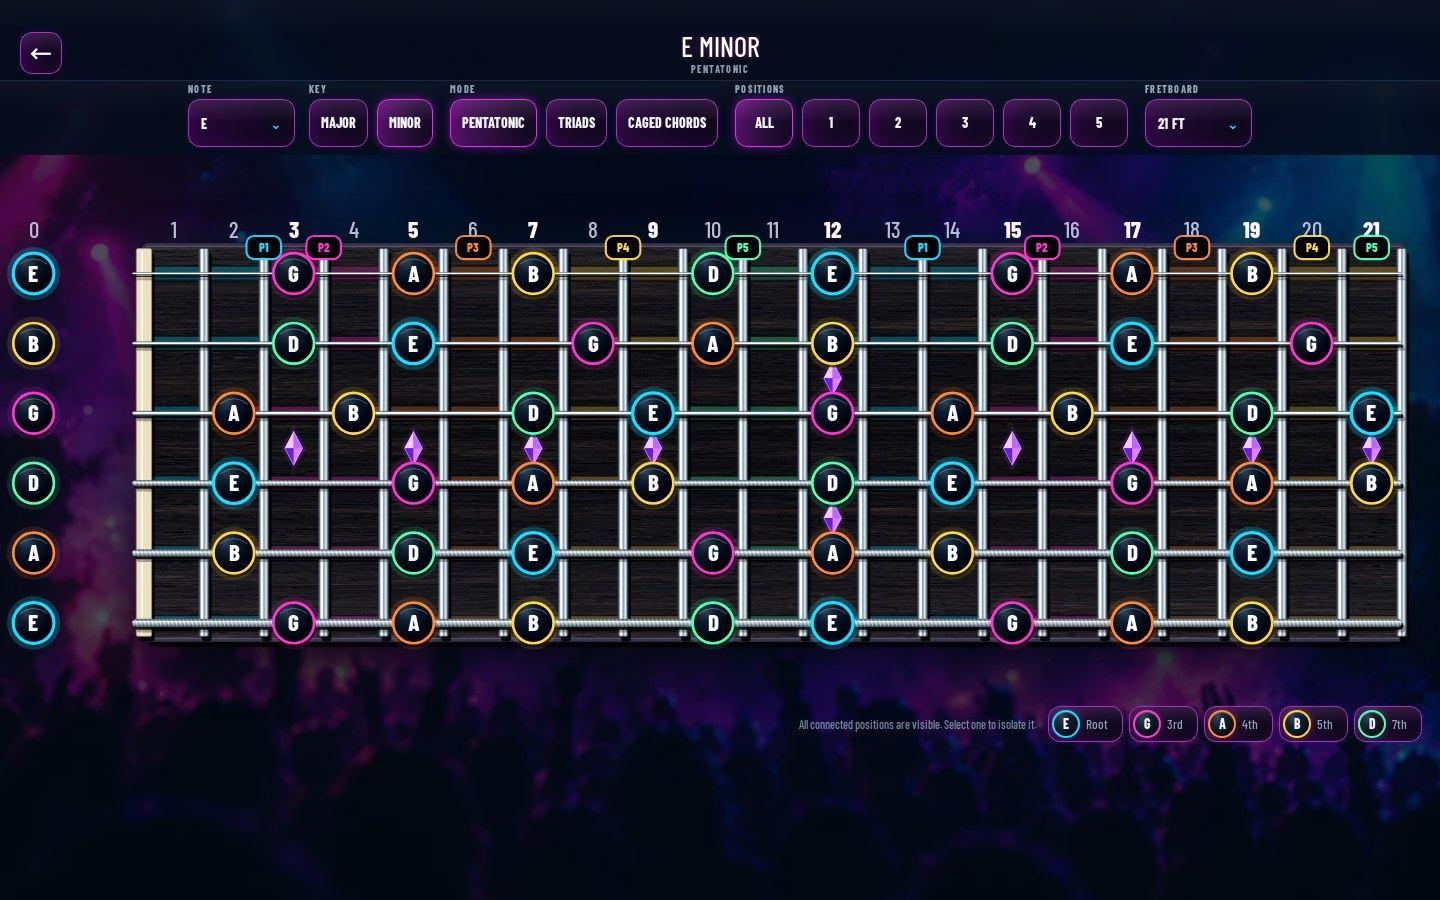
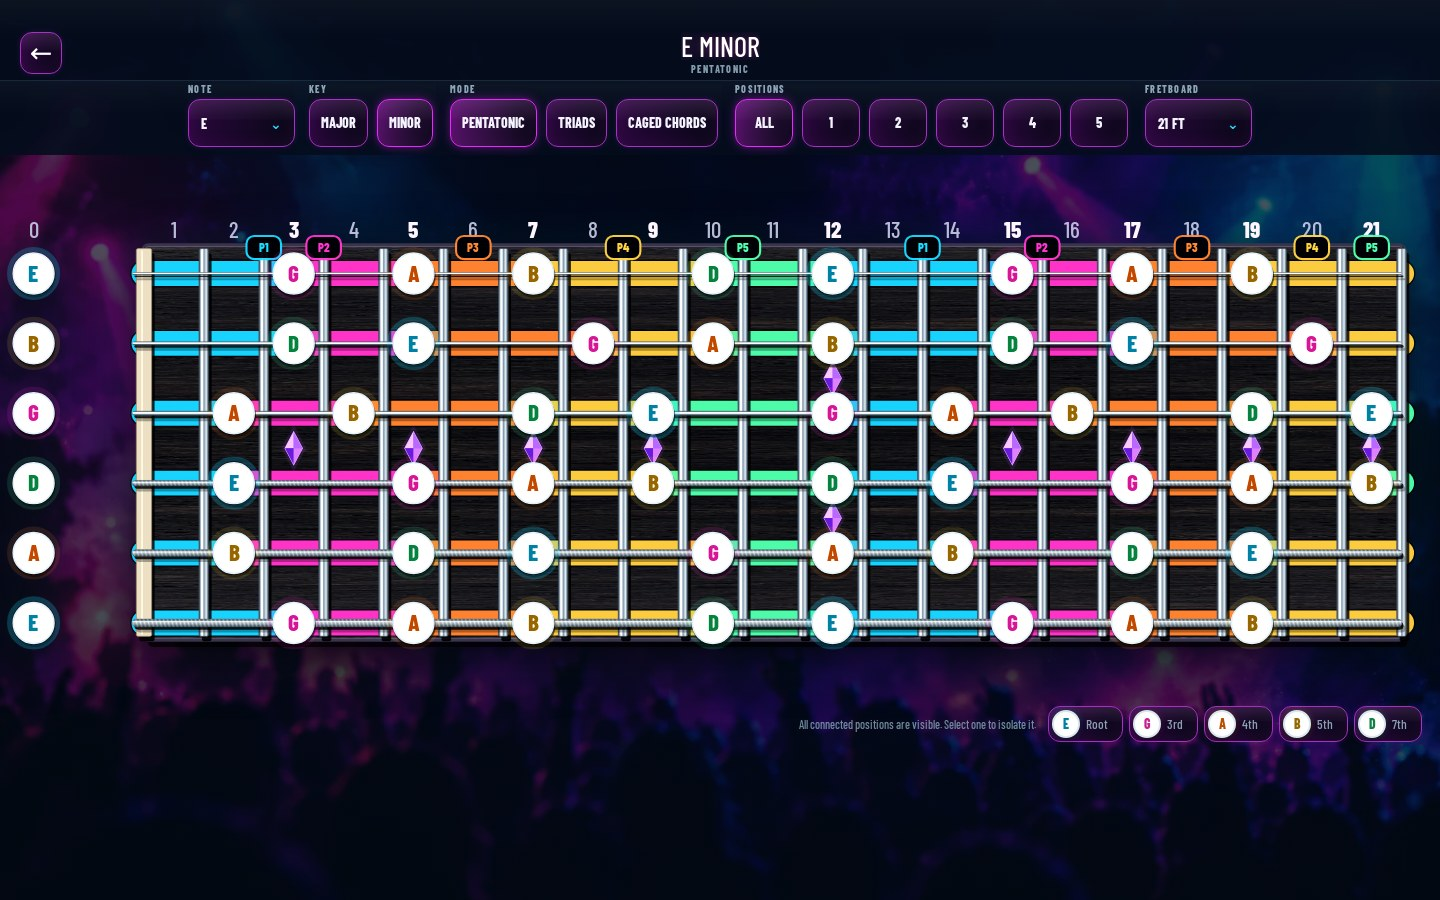
Restore pentatonic clarity with vivid bands and white note pills

diff --git a/web/core/fretboard-appearance.js b/web/core/fretboard-appearance.js
@@ -3,9 +3,11 @@
   // One visual language for the neck, note badges and their HTML legends.
   const DEGREE_COLORS=Object.freeze({root:'#27d7ff',third:'#ff3ec9',fourth:'#ff8b3d',fifth:'#ffd14f',seventh:'#5cffb2',second:'#9b6cff',sixth:'#35d1b0'});
   const SCALE_COLORS=Object.freeze(['#27d7ff','#5cffb2','#ff3ec9','#ff9d3f','#ffd14f','#9b6cff','#35d1b0']);
+  const DEGREE_INK=Object.freeze({root:'#007f9e',third:'#c92091',fourth:'#b94d00',fifth:'#946800',seventh:'#118044',second:'#6842bb',sixth:'#087c68'});
+  const inkFor=color=>DEGREE_INK[Object.keys(DEGREE_COLORS).find(degree=>DEGREE_COLORS[degree]===color)]||color;
   function create({svgEl,stringCount,instrument}){
     const metrics=new Map(),measure=document.createElement('canvas').getContext('2d');
-    function centeredLabel({x,y,label,size}){
+    function centeredLabel({x,y,label,size,color='#f4f3ff'}){
       const family=getComputedStyle(document.body).fontFamily,key=`${family}:${size}:${label}`;
       if(!metrics.has(key)){
         measure.font=`800 ${size}px ${family}`;
@@ -13,7 +15,7 @@
       }
       const m=metrics.get(key);
       // Center the visible glyph ink, not the font's em box or advance width.
-      return svgEl('text',{x:x+(m.actualBoundingBoxLeft-m.actualBoundingBoxRight)/2,y:y+(m.actualBoundingBoxAscent-m.actualBoundingBoxDescent)/2,fill:'#f4f3ff','font-size':size,'font-weight':800,'text-anchor':'start','dominant-baseline':'alphabetic','pointer-events':'none','data-label-center-x':x,'data-label-center-y':y},label);
+      return svgEl('text',{x:x+(m.actualBoundingBoxLeft-m.actualBoundingBoxRight)/2,y:y+(m.actualBoundingBoxAscent-m.actualBoundingBoxDescent)/2,fill:color,'font-size':size,'font-weight':800,'text-anchor':'start','dominant-baseline':'alphabetic','pointer-events':'none','data-label-center-x':x,'data-label-center-y':y},label);
     }
     function gradient(defs,id,stops,radial=false,isP=false){
       const node=svgEl(radial?'radialGradient':'linearGradient',radial?{id,cx:'32%',cy:'22%',r:'85%'}:{id,x1:'0%',y1:'0%',x2:isP?'100%':'0%',y2:isP?'0%':'100%'});
@@ -71,20 +73,20 @@
       group.append(svgEl('path',{d:`M ${x} ${y} L ${x+w} ${y} L ${x} ${y+h} Z`,fill:'#d581ff'}));svg.append(group);
     }
 
-    function note(svg,{x,y,isP,color,label,target=false,attrs={}}){
+    function note(svg,{x,y,isP,color,label,target=false,light=false,attrs={}}){
       const r=Number(svg.dataset.noteRadius)||(isP?26:24),prefix=svg.dataset.neckPrefix;
       if(Number(attrs['data-fret'])===0)svg.querySelector(`.neck-tuning[data-string="${attrs['data-string']}"]`)?.remove();
-      const group=svgEl('g',{class:'neck-note','data-note-color':color,...attrs});
+      const group=svgEl('g',{class:light?'neck-note neck-note-light':'neck-note','data-note-color':color,'data-note-ink':light?inkFor(color):'#f4f3ff',...attrs});
       group.append(svgEl('circle',{cx:x+1,cy:y+3,r:r+1,fill:'#000',opacity:.65}));
       group.append(svgEl('circle',{cx:x,cy:y,r:r+4,fill:'none',stroke:color,'stroke-width':5,opacity:target?.22:.12}));
-      group.append(svgEl('circle',{cx:x,cy:y,r,fill:`url(#${prefix}NoteGlass)`,stroke:color,'stroke-width':target?3.4:2.8}));
+      group.append(svgEl('circle',{cx:x,cy:y,r,fill:light?'#fff':`url(#${prefix}NoteGlass)`,stroke:light?'#dce8ef':color,'stroke-width':light?1.8:(target?3.4:2.8)}));
       group.append(svgEl('path',{d:`M ${x-r*.68} ${y-r*.45} Q ${x} ${y-r*.98} ${x+r*.68} ${y-r*.45}`,fill:'none',stroke:'#fff','stroke-width':.9,opacity:.32,'pointer-events':'none'}));
-      group.append(centeredLabel({x,y,label,size:isP?(label.length>1?21:26):(label.length>1?18:24)}));svg.append(group);
+      group.append(centeredLabel({x,y,label,size:isP?(label.length>1?21:26):(label.length>1?18:24),color:light?inkFor(color):'#f4f3ff'}));svg.append(group);
     }
-    function pill(host,label){
+    function pill(host,label,{light=false,color}={}){
       const svg=svgEl('svg',{viewBox:'0 0 28 28',width:28,height:28,'aria-hidden':'true',class:'neck-pill-label'});
-      svg.append(centeredLabel({x:14,y:14,label,size:16}));
-      host.replaceChildren(svg);host.setAttribute('aria-label',label);
+      svg.append(centeredLabel({x:14,y:14,label,size:16,color:light?inkFor(color):'#f4f3ff'}));
+      host.replaceChildren(svg);host.classList.toggle('is-light',light);host.dataset.noteInk=light?inkFor(color):'#f4f3ff';host.setAttribute('aria-label',label);
     }
     function tuning(svg,{x,y,label,string}){
       const group=svgEl('g',{class:'neck-tuning','data-string':string,'pointer-events':'none'});

diff --git a/web/index.html b/web/index.html
@@ -39,9 +39,9 @@
   <link rel="icon" type="image/png" sizes="192x192">
   <link rel="icon" type="image/png" sizes="512x512">
   <link rel="apple-touch-icon" sizes="180x180">
-  <link rel="stylesheet" href="./styles.css?v=10.9.3">
-  <link rel="stylesheet" href="./home.css?v=10.9.3">
-  <link rel="stylesheet" href="./theme.css?v=10.9.3">
+  <link rel="stylesheet" href="./styles.css?v=10.9.4">
+  <link rel="stylesheet" href="./home.css?v=10.9.4">
+  <link rel="stylesheet" href="./theme.css?v=10.9.4">
   <script id="productStructuredData" type="application/ld+json">{"@context":"https://schema.org","@type":["VideoGame","WebApplication"],"name":"Fretboard Hero","description":"Interactive fretboard trainer."}</script>
 </head>
 <body data-loading="true" aria-busy="true">
@@ -63,9 +63,9 @@
             <button class="hero-btn circle-card" data-go="circle"><span class="hero-icon"><svg viewBox="0 0 64 64" aria-hidden="true"><use href="./assets/home/icons.svg#circle"/></svg></span><span class="home-card-copy"><strong>CIRCLE OF FIFTHS</strong><small>Visualize & practice</small></span><span class="home-chevron" aria-hidden="true">›</span></button>
           </nav>
           <nav class="home-instruments" aria-label="Choose instrument">
-            <button type="button" data-home-instrument="guitar" aria-pressed="false"><svg class="instrument-art" viewBox="71.5 11.3333 190 253.3333" aria-hidden="true" preserveAspectRatio="xMidYMid meet"><image href="./assets/home/instruments.webp?v=10.9.3" width="768" height="256"/></svg><span>Guitar</span></button>
-            <button type="button" data-home-instrument="bass-4" aria-pressed="false"><svg class="instrument-art" viewBox="301.5 10.3333 190 253.3333" aria-hidden="true" preserveAspectRatio="xMidYMid meet"><image href="./assets/home/instruments.webp?v=10.9.3" width="768" height="256"/></svg><span>Bass</span></button>
-            <button type="button" data-home-instrument="ukulele" aria-pressed="false"><svg class="instrument-art" viewBox="510 16.8333 190 253.3333" aria-hidden="true" preserveAspectRatio="xMidYMid meet"><image href="./assets/home/instruments.webp?v=10.9.3" width="768" height="256"/></svg><span>Ukulele</span></button>
+            <button type="button" data-home-instrument="guitar" aria-pressed="false"><svg class="instrument-art" viewBox="71.5 11.3333 190 253.3333" aria-hidden="true" preserveAspectRatio="xMidYMid meet"><image href="./assets/home/instruments.webp?v=10.9.4" width="768" height="256"/></svg><span>Guitar</span></button>
+            <button type="button" data-home-instrument="bass-4" aria-pressed="false"><svg class="instrument-art" viewBox="301.5 10.3333 190 253.3333" aria-hidden="true" preserveAspectRatio="xMidYMid meet"><image href="./assets/home/instruments.webp?v=10.9.4" width="768" height="256"/></svg><span>Bass</span></button>
+            <button type="button" data-home-instrument="ukulele" aria-pressed="false"><svg class="instrument-art" viewBox="510 16.8333 190 253.3333" aria-hidden="true" preserveAspectRatio="xMidYMid meet"><image href="./assets/home/instruments.webp?v=10.9.4" width="768" height="256"/></svg><span>Ukulele</span></button>
           </nav>
         </div>
       </div>
@@ -205,7 +205,7 @@
     </div>
   </div>
 
-  <script src="./bootstrap.js?v=10.9.3" defer></script>
+  <script src="./bootstrap.js?v=10.9.4" defer></script>
   <script>if('serviceWorker' in navigator){window.addEventListener('load',()=>navigator.serviceWorker.register('./sw.js').catch(()=>{}));}</script>
 
 </body>

diff --git a/web/bootstrap.js b/web/bootstrap.js
@@ -8,12 +8,12 @@
     artwork.setAttribute('href','./assets/home/product-wordmarks.webp');
   });
   const CATALOG={
-    'guitar':{instrumentKey:'guitar',instrument:'./instruments/guitar.js?v=10.9.3',productKey:'guitar',product:'./products/guitar-fretboard-hero.js?v=10.9.3'},
-    'bass-4':{instrumentKey:'bass4',instrument:'./instruments/bass-4.js?v=10.9.3',productKey:'bass',product:'./products/bass-fretboard-hero.js?v=10.9.3'},
-    'ukulele':{instrumentKey:'ukulele',instrument:'./instruments/ukulele.js?v=10.9.3',productKey:'ukulele',product:'./products/ukulele-fretboard-hero.js?v=10.9.3'},
+    'guitar':{instrumentKey:'guitar',instrument:'./instruments/guitar.js?v=10.9.4',productKey:'guitar',product:'./products/guitar-fretboard-hero.js?v=10.9.4'},
+    'bass-4':{instrumentKey:'bass4',instrument:'./instruments/bass-4.js?v=10.9.4',productKey:'bass',product:'./products/bass-fretboard-hero.js?v=10.9.4'},
+    'ukulele':{instrumentKey:'ukulele',instrument:'./instruments/ukulele.js?v=10.9.4',productKey:'ukulele',product:'./products/ukulele-fretboard-hero.js?v=10.9.4'},
   };
-  const CORE=['music-theory','circle-of-fifths','circle-renderer','tuning','fretboard-engine','fretboard-layout','fretboard-appearance','fretboard-map','pentatonic-renderer','triad-engine','arpeggio-engine','chord-engine','quiz-engine','controls','mode-registry','product-shell'].map(n=>`./core/${n}.js?v=10.9.3`);
-  const MODES=['pentatonic','triads','chords','arpeggios'].map(n=>`./modes/${n}.js?v=10.9.3`);
+  const CORE=['music-theory','circle-of-fifths','circle-renderer','tuning','fretboard-engine','fretboard-layout','fretboard-appearance','fretboard-map','pentatonic-renderer','triad-engine','arpeggio-engine','chord-engine','quiz-engine','controls','mode-registry','product-shell'].map(n=>`./core/${n}.js?v=10.9.4`);
+  const MODES=['pentatonic','triads','chords','arpeggios'].map(n=>`./modes/${n}.js?v=10.9.4`);
   const load=src=>new Promise((resolve,reject)=>{const s=document.createElement('script');s.async=false;s.src=src;s.onload=resolve;s.onerror=()=>reject(new Error(`Unable to load ${src}`));document.head.appendChild(s);});
   const fail=err=>{document.body.setAttribute('aria-busy','false');console.error(err);document.body.innerHTML=`<main style="min-height:100vh;display:grid;place-items:center;background:#05080b;color:#f8fbff;font-family:system-ui;padding:24px"><div><h1 style="color:#ff3ec9">CONFIGURATION ERROR</h1><p>${String(err.message||err)}</p><p>Check <code>site.config.json</code> and README.md.</p></div></main>`;};
   (async()=>{
@@ -37,9 +37,9 @@
       window.FRETBOARD_ACTIVE_PRODUCT={...product,instrument:entry.instrumentKey};window.FRETBOARD_ACTIVE_INSTRUMENT=instrument;
       document.documentElement.dataset.instrument=config.instrument;
       window.ProductShell.apply(product,instrument);
-      await load('./home.js?v=10.9.3');
+      await load('./home.js?v=10.9.4');
       await document.fonts.load('800 26px "Hero Condensed"').catch(()=>[]);
-      await load('./app.js?v=10.9.3');
+      await load('./app.js?v=10.9.4');
       if(!await artworkReady){
         logo.setAttribute('hidden','');
         const fallback=document.createElement('span');

diff --git a/web/core/pentatonic-renderer.js b/web/core/pentatonic-renderer.js
@@ -1,6 +1,6 @@
 (() => {
   'use strict';
   function visiblePairs({profile,anchor,maxFret,selected='all'}){const geom=profile.pentatonic?.stringPairs;if(!geom)return[];const out=[];for(let id=1;id<=5;id++){if(selected!=='all'&&String(id)!==String(selected))continue;for(const shift of [-24,-12,0,12,24,36]){const base=anchor+shift,pairs=geom[id].map(([a,b])=>[base+a,base+b]);if(pairs.some(([a,b])=>b>=0&&a<=maxFret))out.push({id,pairs})}}return out}
-  function renderSegments({svg,windows,colors,stringCount,isPortrait,fretPos,stringPos,maxFret,fretCenter,svgEl}){windows.forEach(w=>{const color=colors[w.id-1];for(let s=0;s<stringCount;s++){let[from,to]=w.pairs[s];if(to<=0||from>maxFret)continue;const a=from<=0?fretPos(0):fretCenter(from,fretPos),b=to>maxFret?fretPos(maxFret):fretCenter(to,fretPos),p=stringPos(s),attrs=isPortrait?{x1:p,y1:a,x2:p,y2:b}:{x1:a,y1:p,x2:b,y2:p},width=isPortrait?22:14;svg.append(svgEl('line',{...attrs,stroke:'#02060a','stroke-width':width+3,'stroke-linecap':'round',opacity:.38}));svg.append(svgEl('line',{...attrs,stroke:color,'stroke-width':width,'stroke-linecap':'round',opacity:.3}));svg.append(svgEl('line',{...attrs,stroke:'#fff','stroke-width':2.4,'stroke-linecap':'round',opacity:.12}))}})}
+  function renderSegments({svg,windows,colors,stringCount,isPortrait,fretPos,stringPos,maxFret,fretCenter,svgEl}){windows.forEach(w=>{const color=colors[w.id-1];for(let s=0;s<stringCount;s++){let[from,to]=w.pairs[s];if(to<=0||from>maxFret)continue;const a=from<=0?fretPos(0):fretCenter(from,fretPos),b=to>maxFret?fretPos(maxFret):fretCenter(to,fretPos),p=stringPos(s),attrs=isPortrait?{x1:p,y1:a,x2:p,y2:b}:{x1:a,y1:p,x2:b,y2:p},width=isPortrait?40:26;svg.append(svgEl('line',{...attrs,stroke:'#02060a','stroke-width':width+3,'stroke-linecap':'round',opacity:.68}));svg.append(svgEl('line',{...attrs,stroke:color,'stroke-width':width,'stroke-linecap':'round',opacity:.94}));svg.append(svgEl('line',{...attrs,stroke:'#fff','stroke-width':2.4,'stroke-linecap':'round',opacity:.12}))}})}
   window.PentatonicRenderer={visiblePairs,renderSegments};
 })();

diff --git a/web/app.js b/web/app.js
@@ -179,7 +179,7 @@
       const degree=button.dataset.degreeFilter,pill=button.querySelector('.legend');
       const pc={root:rootPC(),third:thirdPC(),fourth:mod(rootPC()+5),fifth:fifthPC(),seventh:mod(rootPC()+(state.quality==='minor'?10:11))}[degree];
       pill.classList.add('neck-note-pill');pill.style.setProperty('--note-color',FretboardAppearance.DEGREE_COLORS[degree]);
-      appearance.pill(pill,noteName(pc));button.setAttribute('aria-label',`${button.querySelector('small').textContent}: ${noteName(pc)}`);
+      appearance.pill(pill,noteName(pc),{light:modeKind()==='pentatonic',color:FretboardAppearance.DEGREE_COLORS[degree]});button.setAttribute('aria-label',`${button.querySelector('small').textContent}: ${noteName(pc)}`);
     });
     const fourth=$('#legendFourth'),seventh=$('#legendSeventh');
     if(!fourth||!seventh)return;
@@ -342,7 +342,7 @@
       const d=degreeFor(pc);if(!d)continue;if(state.degreeFilter!=='all'&&d!==state.degreeFilter)continue;
       if(ModeRegistry.kind(instrument,opt.mode)!=='pentatonic'&&visibleKeys&&!visibleKeys.has(s+':'+f))continue;
       const degreeColor=DEGREE_COLORS[d]||'#52606b';
-      appearance.note(svg,{x,y,isP,color:degreeColor,label:degreeLabel(pc),target:d==='root',attrs:{'data-string':s,'data-fret':f,'data-degree':d}});
+      appearance.note(svg,{x,y,isP,color:degreeColor,label:degreeLabel(pc),target:d==='root',light:renderKind==='pentatonic',attrs:{'data-string':s,'data-fret':f,'data-degree':d}});
     }
   }
 

diff --git a/web/theme.css b/web/theme.css
@@ -156,3 +156,9 @@ body[data-loading='true'] #app { visibility: hidden; }
 .neck-pill-label { display:block; flex:none; width:100%; height:100%; overflow:visible; }
 .circle-note-pills span.neck-note-pill { display:inline-flex; align-items:center; justify-content:center; }
 .circle-note-pills .neck-pill-label { width:28px; height:24px; }
+
+/* Pentatonic endpoints stay white, as do their matching legend samples. */
+.practice-legend .legend.neck-note-pill.is-light {
+  background:#fff; border-color:#dce8ef;
+  box-shadow:0 2px 4px #0007,0 0 7px color-mix(in srgb,var(--note-color) 22%,transparent);
+}

diff --git a/docs/TECHNICAL.md b/docs/TECHNICAL.md
@@ -374,3 +374,5 @@ V10.9.1: all fret numbers are shown, with 3/5/7/9/12/15/17/19/21 emphasized. Fac
 V10.9.2: note, tuning and legend labels share optical centering based on the visible glyph bounds (Canvas TextMetrics), rather than the font em box. Bold font loading completes before initial board rendering; measured label metrics are cached. Browser checks verified 680 labels including accidentals in desktop, iPad and phone layouts; note/legend matching and all profile/viewport regressions still pass.
 
 V10.9.3: eliminate duplicate tuning/open-note badges; label 0 aligns with the shared open-string column instead of the nut. Quiz open-string hit zones use the same coordinate. Position bands and labels stay on the wood; open-only pentatonic windows do not create stray leading bands. Note radii adapt to fret spacing to keep badges inside narrow 21-fret cells. Verified one badge per string in Map/Practice/Circle for all three profiles in desktop/tablet/phone, matching Quiz open hit-zone centers; existing six-viewport pitch/legend checks and syntax/diff checks pass. Screenshots of All Notes and E-minor pentatonic are in docs/previews/open-string-*.jpg.
+
+Pentatonic visual priority: position bands use 40 SVG units in portrait and 26 in landscape at 94% opacity. Pentatonic note discs and their legend pills share a white surface and a degree-specific darker ink palette for readable lettering. Other note surfaces retain the shared glass treatment. Optical text centering is shared across both surfaces. Preview: `docs/previews/pentatonic-phone.jpg`.
